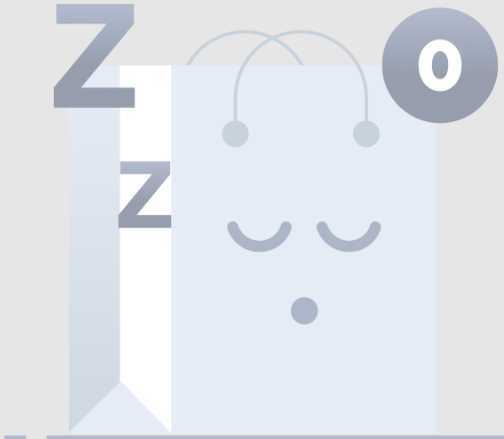
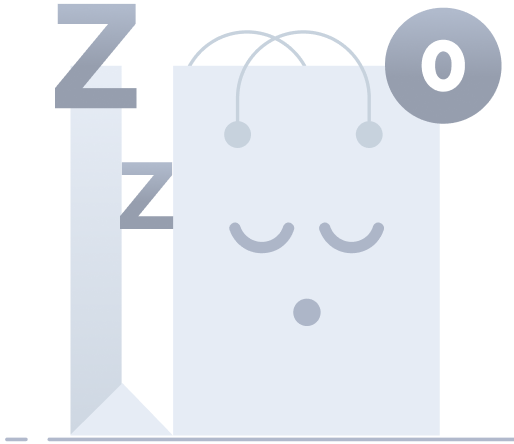
Handled store empty state

diff --git a/components/StoreEmptyState/index.tsx b/components/StoreEmptyState/index.tsx
@@ -1,0 +1,80 @@
+import React, { FC } from 'react';
+import Box from '@mui/material/Box';
+import Typography from '@mui/material/Typography';
+// import Button from '@mui/material/Button';
+import Container from '@mui/material/Container';
+import useTranslation from "next-translate/useTranslation";
+import Image from 'next/image';
+import emptyState from '../../assets/images/store-empty-state.png'
+// import Link from 'next/link';
+// import paths from '../../constants/paths';
+
+const StoreEmptyState: FC = () => {
+    const {t} = useTranslation('common');
+
+  return (
+    <Box sx={{ height: '100vh', backgroundColor: 'grey.0', display: 'flex', alignItems: 'center' }}>
+        <Container sx={{ maxWidth: 1050, height: '100%' }}>
+            <Box sx={{ display: 'flex', alignItems: 'center', justifyContent: 'space-between', height: '100%' }}>
+                <Box sx={{ flexGrow: '1' }}>
+                    <Typography
+                        sx={{
+                            fontWeight: 700,
+                            fontSize: {xs: '14px', sm: '24px'},
+                            lineHeight: {xs: '20px', sm: '36px'},
+                            letterSpacing: '0.2px',
+                        }}
+                    >
+                        {t('newStore')}
+                    </Typography>
+                    <Typography
+                        sx={{
+                            fontWeight: 700,
+                            fontSize: {xs: '18px', sm: '48px'},
+                            lineHeight: {xs: '26px', sm: '80px'},
+                            letterSpacing: '0.2px',
+                            mb: {xs: 1, sm: 2}
+                        }}
+                    >
+                        {t('storeNotReady')}
+                    </Typography>
+                    <Typography
+                        sx={{
+                            fontSize: {xs: '12px', sm: '14px'},
+                            lineHeight: {xs: '16px', sm: '20px'},
+                            letterSpacing: '0.2px',
+                            color: '#5A5A5A',
+                            mb: {xs: 1, sm: 2},
+                            maxWidth: {xs: 226, sm: 376}
+                        }}
+                    >
+                        {t('storeEmptyStateDescription')}
+                    </Typography>
+                    {/* <Link href={paths.contactUs}>
+                        <Button
+                            variant='contained'
+                            sx={{
+                                minWidth: {xs: 100, sm: 160},
+                                p: {xs: 1, sm: 2},
+                                "&:hover": {
+                                    backgroundColor: "primary.hover"
+                                },
+                                display: 'inline-block',
+                                textAlign: 'center'
+                            }}
+                            component='span'
+                        >
+                            {t('contactUs')}
+                        </Button>
+                    </Link> */}
+                </Box>
+                <Box sx={{  width: {xs: 180, sm: 285}, height: {xs: 120, sm: 245} }}>
+                    <Image src={emptyState} alt='empty state' />
+                </Box>
+            </Box>
+        </Container>
+    </Box>
+  )
+}
+
+export default StoreEmptyState

diff --git a/contexts/CommonContext.tsx b/contexts/CommonContext.tsx
@@ -1,10 +1,12 @@
-import React, { createContext, useContext, ReactElement, FC, useEffect, useState } from 'react';
+import React, { createContext, useContext, ReactElement, FC, useState } from 'react';
 import { getSlides, getStoreInfo } from '../services/common.services';
 import { CommonContextState, SlideData, StoreInfoData } from '../types/common';
 import  { getMostPurchasedProducts } from '../services/products.services';
 import { ProductData } from '../types/products';
-import { useRouter } from 'next/router';
+// import { useRouter } from 'next/router';
 import { FloatingWhatsApp } from '../components/FloatingWhatsApp';
+import StoreEmptyState from '../components/StoreEmptyState';
+// import paths from '../constants/paths';
 interface Props {
   children: ReactElement | ReactElement[];
 }
@@ -24,18 +26,17 @@ export const CommonContextProvider: FC<Props> = ({ children }) => {
     })
 
     const [slides, setSlides] = useState<SlideData[]>([])
-
-    const router = useRouter();
-
+    const [storeNotFound, setStoreNotFound] = useState(false);
     const [mostPurchasedProducts, setMostPurchasedProducts] = useState<ProductData[]>([])
-    
+    // const router = useRouter();
     async function fetchStoreInfo() {
       try {
         const response = await getStoreInfo();
         setStoreInfo(response.data.data)
+        setStoreNotFound(false)
       } catch (error) {
         Promise.reject(error)
-        router.push('/404')
+        setStoreNotFound(true)
       }
     }
 
@@ -66,18 +67,24 @@ export const CommonContextProvider: FC<Props> = ({ children }) => {
     slides,
     fetchSlides
   };
-  
+
   return (
     <CommonContext.Provider value={state}>
-      {children}
-      <FloatingWhatsApp
-        phoneNumber={storeInfo.complaintNumber}
-        accountName={storeInfo.name}
-        avatar={storeInfo.mainImageFilePath?.thumbUrl}
-        allowEsc
-        allowClickAway
-        notification
-      />
+      {storeNotFound ? (
+        <StoreEmptyState />
+      ) : (
+        <>
+          {children}
+          <FloatingWhatsApp
+          phoneNumber={storeInfo.complaintNumber}
+          accountName={storeInfo.name}
+          avatar={storeInfo.mainImageFilePath?.thumbUrl}
+          allowEsc
+          allowClickAway
+          notification
+        />
+        </>
+      )}
     </CommonContext.Provider>
   );
 };

diff --git a/types/common.ts b/types/common.ts
@@ -40,7 +40,7 @@ export type CommonContextState = {
     mostPurchasedProducts: ProductData[],
     fetchMostPurchasedProducts: (params: { page: number, pageSize: number, generalSearch: string | string[] | undefined }) => Promise<void>,
     slides: SlideData[],
-    fetchSlides: () => Promise<void>,
+    fetchSlides: () => Promise<void>
 }
 
 
